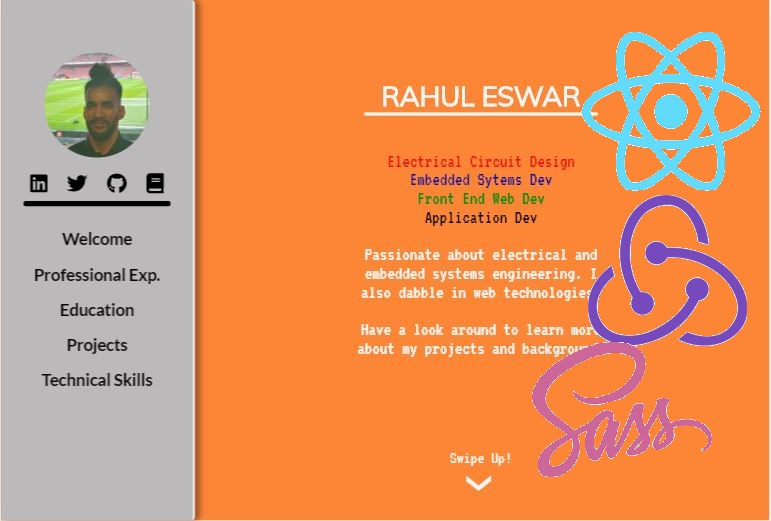
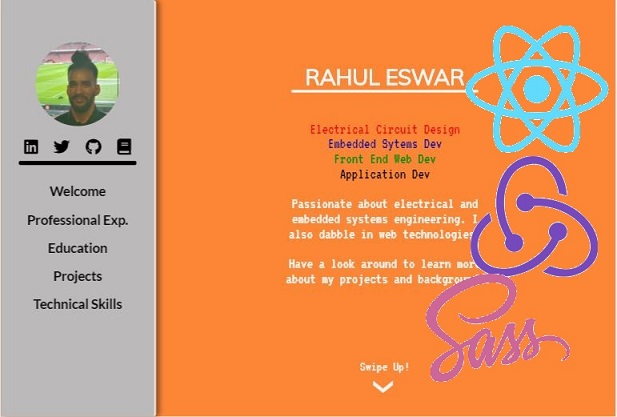
separating hover effects

diff --git a/src/css/projects.scss b/src/css/projects.scss
@@ -200,7 +200,8 @@ $tag-list-trans-in-time: 400ms;
 
             img {
                 width: auto;
-                height: 100%;
+                height: auto;
+                max-height: 100%;
             }
         }
     }
@@ -394,14 +395,17 @@ $tag-list-trans-in-time: 400ms;
 /************************ MEDIA QUERIES *************************/
 
 /* Tall phones */
-@media only screen and (min-width: 425px) and (min-height: 640px) {
+@media only screen and (min-width: 320px) and (min-height: 640px) {
     .projects-page #proj-card {
         font-size: 16px;
 
         .title-and-date {
             font-size: 1em;
             grid-row: 2 / 3;
-            height: 90%;
+            
+            .date {
+                margin-top: 0.5em;
+            }
         }
 
         #tags-and-desc .proj-card-tags {
@@ -411,14 +415,9 @@ $tag-list-trans-in-time: 400ms;
 }
 
 /* Tall phones */
-@media only screen and (min-width: 425px) and (min-height: 700px) {
+@media only screen and (min-width: 320px) and (min-height: 700px) {
     .projects-page #proj-card {
         font-size: 17px;
-
-        .title-and-date {
-            grid-row: 2 / 3;
-            height: 90%;
-        }
     }
 }
 
@@ -483,6 +482,28 @@ $tag-list-trans-in-time: 400ms;
     
             .image-container {
                 grid-row: 3 / 7;
+            }
+        }
+    }
+}
+
+/* Large laptops */
+@media only screen and (min-width: 1400px) {
+    .projects-page {
+        .tags-list .tag-item {
+            font-size: 1.2em;
+        }
+
+        #proj-card {
+            font-size: 17px;
+
+            .title-and-date {
+                font-size: 1.2em;
+                grid-row: 2 / 3;
+                
+                .date {
+                    margin-top: 0.5em;
+                }
             }
         }
     }

diff --git a/src/css/projects.css b/src/css/projects.css
@@ -244,7 +244,8 @@
 
 .projects-page #proj-card .image-container img {
   width: auto;
-  height: 100%;
+  height: auto;
+  max-height: 100%;
 }
 
 .projects-page .tags-list {
@@ -567,7 +568,7 @@
 
 /************************ MEDIA QUERIES *************************/
 /* Tall phones */
-@media only screen and (min-width: 425px) and (min-height: 640px) {
+@media only screen and (min-width: 320px) and (min-height: 640px) {
   .projects-page #proj-card {
     font-size: 16px;
   }
@@ -576,7 +577,9 @@
     -ms-grid-row: 2;
     -ms-grid-row-span: 1;
     grid-row: 2 / 3;
-    height: 90%;
+  }
+  .projects-page #proj-card .title-and-date .date {
+    margin-top: 0.5em;
   }
   .projects-page #proj-card #tags-and-desc .proj-card-tags {
     font-size: 0.7em;
@@ -584,15 +587,9 @@
 }
 
 /* Tall phones */
-@media only screen and (min-width: 425px) and (min-height: 700px) {
+@media only screen and (min-width: 320px) and (min-height: 700px) {
   .projects-page #proj-card {
     font-size: 17px;
-  }
-  .projects-page #proj-card .title-and-date {
-    -ms-grid-row: 2;
-    -ms-grid-row-span: 1;
-    grid-row: 2 / 3;
-    height: 90%;
   }
 }
 
@@ -651,6 +648,25 @@
     -ms-grid-row: 3;
     -ms-grid-row-span: 4;
     grid-row: 3 / 7;
+  }
+}
+
+/* Large laptops */
+@media only screen and (min-width: 1400px) {
+  .projects-page .tags-list .tag-item {
+    font-size: 1.2em;
+  }
+  .projects-page #proj-card {
+    font-size: 17px;
+  }
+  .projects-page #proj-card .title-and-date {
+    font-size: 1.2em;
+    -ms-grid-row: 2;
+    -ms-grid-row-span: 1;
+    grid-row: 2 / 3;
+  }
+  .projects-page #proj-card .title-and-date .date {
+    margin-top: 0.5em;
   }
 }
 /*# sourceMappingURL=projects.css.map */

diff --git a/src/css/portfolio.css b/src/css/portfolio.css
@@ -289,4 +289,24 @@ html .no-select, body .no-select {
             transform: scale(1.2);
   }
 }
+
+/* Large laptop */
+@media only screen and (min-width: 1345px) {
+  .grid-container .resume-window {
+    -ms-grid-row: 2;
+    -ms-grid-row-span: 9;
+    grid-row: 2 / 11;
+    -ms-grid-column: 3;
+    -ms-grid-column-span: 10;
+    grid-column: 3 / 13;
+    height: 110%;
+    overflow: visible;
+  }
+  .grid-container .resume-window .next-arrow {
+    right: 15%;
+  }
+  .grid-container .resume-window .prev-arrow {
+    left: 30%;
+  }
+}
 /*# sourceMappingURL=portfolio.css.map */

diff --git a/src/css/hoverEffects.css b/src/css/hoverEffects.css
@@ -1,0 +1,14 @@
+body .has-hover .grid-container .navigation .side-nav-link-container .nav-link-container .nav-link:hover {
+  letter-spacing: 2px;
+  color: #F0A202;
+}
+
+body .has-hover .grid-container #intro-page .intro-container #swipe-arrow-container:hover {
+  color: yellow;
+}
+
+body .has-hover .grid-container #intro-page .intro-container #swipe-arrow-container:hover .swipe-arrow {
+  -webkit-transform: rotate(90deg) scale(1.4);
+          transform: rotate(90deg) scale(1.4);
+}
+/*# sourceMappingURL=hoverEffects.css.map */

diff --git a/src/css/education.css b/src/css/education.css
@@ -239,4 +239,21 @@
     grid-column: 4 / 8;
   }
 }
+
+/* Large laptops */
+@media only screen and (min-width: 1400px) {
+  .education-page #edu-card {
+    font-size: 18px;
+  }
+  .education-page #edu-card .school-and-date {
+    -ms-grid-column: 4;
+    -ms-grid-column-span: 2;
+    grid-column: 4 / 6;
+  }
+  .education-page #edu-card .degree-and-major {
+    -ms-grid-column: 4;
+    -ms-grid-column-span: 2;
+    grid-column: 4 / 6;
+  }
+}
 /*# sourceMappingURL=education.css.map */

diff --git a/src/css/welcome.css b/src/css/welcome.css
@@ -165,12 +165,12 @@
     color: yellow;
   }
   #intro-page .intro-container #swipe-arrow-container:hover .swipe-arrow {
+    -webkit-transition: all 300ms;
+    transition: all 300ms;
     -webkit-transform: rotate(90deg) scale(1.4);
             transform: rotate(90deg) scale(1.4);
   }
   #intro-page .intro-container #swipe-arrow-container .swipe-arrow {
-    -webkit-transition: all 300ms;
-    transition: all 300ms;
     font-size: 45px;
   }
 }

diff --git a/src/css/portfolio.scss b/src/css/portfolio.scss
@@ -247,3 +247,20 @@ html, body {
     }
 }
 
+/* Large laptop */
+@media only screen and (min-width: 1345px) {
+    .grid-container .resume-window {
+        grid-row: 2 / 11;
+        grid-column: 3 / 13;
+        height: 110%;
+        overflow: visible;
+
+        .next-arrow {
+            right: 15%;
+        }
+        .prev-arrow {
+            left: 30%;
+        }
+    }
+}
+

diff --git a/src/css/hoverEffects.scss b/src/css/hoverEffects.scss
@@ -1,0 +1,15 @@
+body .has-hover .grid-container {
+    .navigation .side-nav-link-container .nav-link-container .nav-link:hover {
+        letter-spacing: 2px;
+        color: #F0A202;
+    }
+
+    #intro-page .intro-container #swipe-arrow-container:hover {
+        color: yellow;
+
+        .swipe-arrow {
+            transform: rotate(90deg) scale(1.4);
+        } 
+    }
+
+}

diff --git a/src/css/welcome.scss b/src/css/welcome.scss
@@ -134,12 +134,12 @@
                 color: yellow;
 
                 .swipe-arrow {
+                    transition: all 300ms;
                     transform: rotate(90deg) scale(1.4);
                 }
             }
 
             .swipe-arrow {
-                transition: all 300ms;
                 font-size: 45px;
             }
         }

diff --git a/src/css/education.scss b/src/css/education.scss
@@ -180,5 +180,20 @@
     }
 }
 
+/* Large laptops */
+@media only screen and (min-width: 1400px) {
+    .education-page #edu-card {
+        font-size: 18px;
+
+        .school-and-date {
+            grid-column: 4 / 6;
+        }
+
+        .degree-and-major {
+            grid-column: 4 / 6;
+        }
+    }
+}
+
 
 

diff --git a/src/css/sideNav.scss b/src/css/sideNav.scss
@@ -18,8 +18,10 @@ $skills-bg: #C18AF8;
 .grid-container .navigation {
     grid-row: 1 / 13;
     grid-column: 1 / 10;
+    justify-self: start;
     height: 100%;
     width: 100%;
+    max-width: 300px;
     overflow: visible;
 
     #burger-icon {

diff --git a/src/util/getProjPreview.js b/src/util/getProjPreview.js
@@ -12,9 +12,9 @@ function getMaxStrLength() {
     {
         return 100
     }
-    else if (window.screen.width >= 370)
+    else if (window.screen.width >= 375)
     {
-        return 80
+        return 70
     }
     else 
     {
